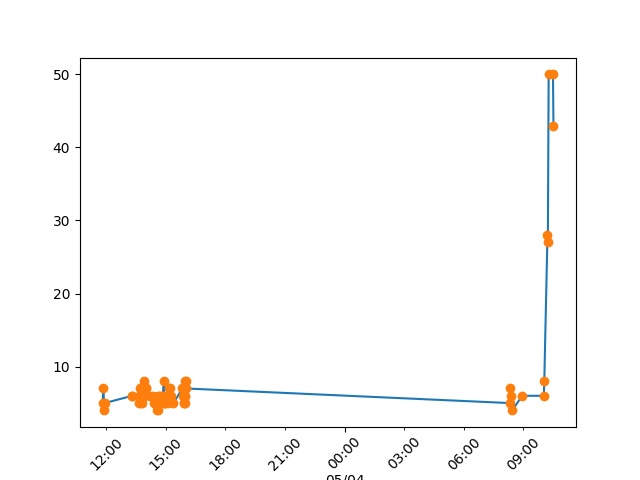
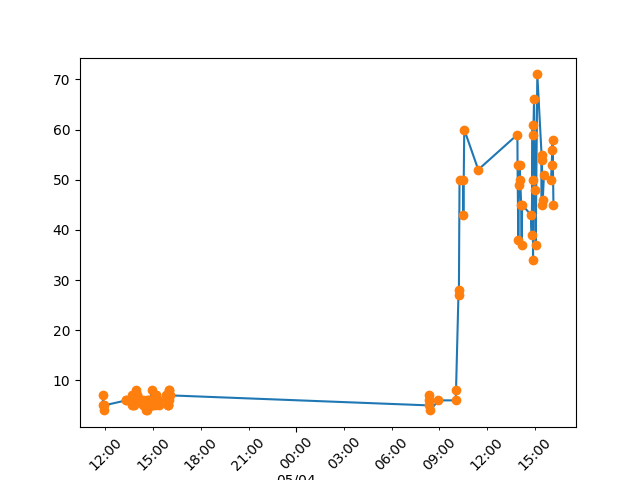
gap scan api updated

diff --git a/Python/mysite/personal/templates/personal/basic.html b/Python/mysite/personal/templates/personal/basic.html
@@ -8,7 +8,7 @@
         <tr class="bg-warning" style="background-color:#e8b70a">
         {% endif %}
           <th scope="row">{{forloop.counter}}</th>
-          <td><img src="https://img.tesco.com/Groceries/pi/{{c.5}}/{{c.0}}/IDShot_540x540.jpg" class="responsive-img" style='max-height:100px;' alt="face"></td>
+          <td><img src="https://img.tesco.com/Groceries/pi/{{c.6}}/{{c.0}}/IDShot_540x540.jpg" class="responsive-img" style='max-height:100px;' alt="face"></td>
           <td>{{c.4}}</td>
           <td>{{c.1}}</td>
           <td>{{c.2}}</td>

diff --git a/Python/WebPage/API.py b/Python/WebPage/API.py
@@ -9,6 +9,7 @@ import sqlite3
 import CreateDB
 import http.client, urllib.request, urllib.parse, urllib.error, base64
 import json
+from Measurements.MeasureUS import MeasureDistancePR
 
 def startfunction():
     from flask import Flask
@@ -38,11 +39,18 @@ def startfunction():
             ProductList = ProductObject.makeProductGrid()
             XYGridList = XYGridObject.MakeXYGrid()
             ShelfList = ShelfObject.makeShelfGrid()
-            for singleshelf in ShelfList:
+            for singleshelf  in ShelfList:
                 measureUS.MeasureDistanceUS(singleshelf, XYGridList) 
-                #measureUS.MeasureDistancePR(singleshelf, XYGridList)
-                
-                #stockpercentages.CalculateConfidence(singleshelf.height, measurementCM, lumens)    
+                measureUS.MeasureDistancePR(singleshelf, XYGridList)
+                a = []
+                for b in XYGridList.__iter__(singleshelf.location):
+                    b.PRCovered = stockpercentages.CalculateConfidence(singleshelf.height, b.USdistance, b.PRCovered)
+                    a.append(b.PRCovered)
+                print("value of a is", a)
+                if -1 in a:
+                    singleshelf.confidenceLevel = -1
+                else:
+                    singleshelf.confidenceLevel = 1
                    
                 stockpercentages.UnitsToFill(singleshelf, ProductList, XYGridList)      
                 print(singleshelf.location, "is", singleshelf.volumePercentFull*100, "% full and can fit", singleshelf.unitsOfSpace, "more units of X")
@@ -75,33 +83,24 @@ def startfunction():
                 if float(b) < 0.65:
                     numberOfGaps = numberOfGaps + 1
                     
-#             return numberOfGaps
-            pkgarray =[]
-            headers = {
-        # Request headers
-            'Ocp-Apim-Subscription-Key': '3ccfc504045b4d9f8f592e8590b1c757',
-            }
-            gtin = 5052109944841
-            params = urllib.parse.urlencode({
-                # Request parameters
-                'gtin': gtin,
-            })
-            
-            conn = http.client.HTTPSConnection('dev.tescolabs.com')
-            conn.request("GET", "/product/?%s" % params, "{body}", headers)
-            response = conn.getresponse()
-            data = response.read()
-            print(data)
-            conn.close()
-            parsed_data = json.loads(data)
-            description = parsed_data['products'][0]['pkgDimensions'][0]['height']
-            pkgarray.append(description)
-            
-            return pkgarray
+            return numberOfGaps                
+    
+    class photo_resistor(Resource):
+        def get(self):
+            ProductList = ProductObject.makeProductGrid()
+            XYGridList = XYGridObject.MakeXYGrid()
+            ShelfList = ShelfObject.makeShelfGrid()
+            a =[]
+            for singleshelf in ShelfList:
+                MeasureDistancePR(singleshelf, XYGridList)
                 
-         
+            for b in XYGridList:
+                a.append((int(b.PRCovered), stockpercentages.PRFullness(int(b.PRCovered))))
+            return a
+             
     api.add_resource(Departmental_Salary, '/measurements/')
     api.add_resource(list_priority, '/list/')
     api.add_resource(gap_scan, '/gap/')
+    api.add_resource(photo_resistor, '/pr/')
     
     app.run()

diff --git a/Python/Calculations/stockPercentage.py b/Python/Calculations/stockPercentage.py
@@ -20,22 +20,24 @@ def USFullness(shelfHeight, measurementCM):
         print("1")
         return 1
 
-    elif (PercFull > 2/3):
+    else:
         print("0")
         return 0
 
     
 def PRFullness(lumens):
-    if (Lumens > 450):
+    if (lumens > 450):
         return 2
-    elif (Lumens > 100 and Lumens < 450):
+    elif (lumens > 100 and lumens < 450):
         return 1
-    elif (PercFull < 100):
+    else:
         return 0
         
 def CalculateConfidence(shelfHeight, measurementCM, lumens):
-    if USFullness(shelfHeight, measurementCM) == PRFullness(lumens):
-        return USFullness
+    a = USFullness(shelfHeight, measurementCM)
+    b = PRFullness(lumens)
+    if a == b:
+        return a
     else:
         return -1
     
@@ -98,5 +100,5 @@ def calculateFillListOrder(ShelfList):
     
     master_list = []
     for singleshelf in newlist:
-        master_list.append([singleshelf.tpnb, singleshelf.location, singleshelf.unitsOfSpace, singleshelf.imglocation, singleshelf.salesimglocation])
+        master_list.append([singleshelf.tpnb, singleshelf.location, singleshelf.unitsOfSpace, singleshelf.imglocation, singleshelf.salesimglocation, singleshelf.confidenceLevel])
     return master_list

diff --git a/Python/Objects/shelf.py b/Python/Objects/shelf.py
@@ -4,13 +4,14 @@ class Shelf(object):
         self.height = height
         self.width = width
         self.depth = depth
-        self.volumePercentFull = 0
+        self.confidenceLevel = float(0.00) 
         self.areaFull = 0
         self.tpnb = tpnb
         self.unitsOccupied = 0
         self.unitsOfSpace = 0
         self.imglocation = ""
-        self.salesimglocation = ""    
+        self.salesimglocation = ""
+        self.volumePercentFull = 0   
 
 def makeShelfGrid(): 
     MadeList = []

diff --git a/Python/Measurements/MeasureUS.py b/Python/Measurements/MeasureUS.py
@@ -69,4 +69,4 @@ def MeasureDistancePR(singleshelf, XYGridList):
     else:
         for XYGrid in XYGridList:
             if ( XYGrid.shelflocation == singleshelf.location):
-                XYGrid.PRCovered = random.random() * 24  
+                XYGrid.PRCovered = random.random() * 1000  
